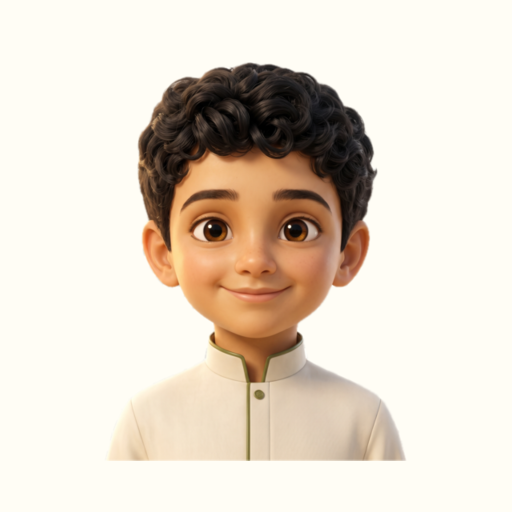
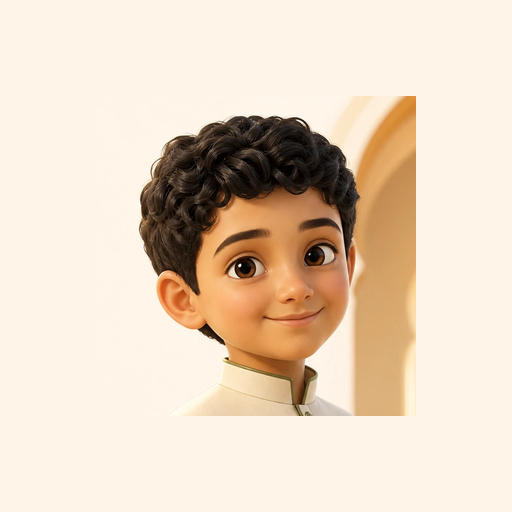
صورة المشاركة وأيقونة الجهاز بقت صورة يحيى الجديدة
صورة المشاركة اتبنت من صورة يحيى: اتقصّ بقناع Vision ووقف جوه قوس مسجد
على خلفية عاجية، بمقاس 1200×630 اللي بتطلبه المنصات. اتسمّت باسم جديد
(og-yahya-hero.jpg) لأن فيسبوك وإكس بيحفظوا الصورة القديمة على نفس
الرابط، والقديمة سايبها مكانها عشان اللي اتشارك قبل كده ما يبوظش.

وأيقونات الجهاز — أيقونة سفاري وأيقونات التطبيق الثلاثة — بقت وش يحيى
مقصوص من نفس الصورة، والأيقونة القابلة للقص فيها هامش أمان عشان
الموبايلات اللي بتقصّ الأطراف.

والاستماع اتنقل في القائمة العلوية قبل «عن الأكاديمية».

diff --git a/site/client/index.html b/site/client/index.html
@@ -21,12 +21,12 @@
     <meta data-default property="og:locale" content="ar_AR" />
     <meta data-default property="og:title" content="أكاديمية يحيى لتعليم القرآن للأطفال" />
     <meta data-default property="og:description" content="قراءة القرآن بالنص العثماني مع تلاوات معلّمة موثقة، وقصص من القرآن للأطفال." />
-    <meta data-default property="og:image" content="https://yahyaquran.com/og-yahya.jpg" />
+    <meta data-default property="og:image" content="https://yahyaquran.com/og-yahya-hero.jpg" />
     <meta data-default property="og:url" content="https://yahyaquran.com/" />
     <meta data-default name="twitter:card" content="summary_large_image" />
     <meta data-default name="twitter:title" content="أكاديمية يحيى لتعليم القرآن للأطفال" />
     <meta data-default name="twitter:description" content="قراءة القرآن بالنص العثماني مع تلاوات معلّمة موثقة، وقصص من القرآن للأطفال." />
-    <meta data-default name="twitter:image" content="https://yahyaquran.com/og-yahya.jpg" />
+    <meta data-default name="twitter:image" content="https://yahyaquran.com/og-yahya-hero.jpg" />
     <!--meta:end-->
 
     <link rel="icon" href="/favicon.svg" type="image/svg+xml" />

diff --git a/site/client/src/components/SiteChrome.tsx b/site/client/src/components/SiteChrome.tsx
@@ -58,11 +58,11 @@ export function SiteChrome({ variant = "full" }: { variant?: "full" | "reader" }
         {variant === "full" && (
           <nav aria-label={t.nav} className="site-nav">
             <Link href="/hifz">{t.hifz}</Link>
-            <Link href="/listen">{t.listen}</Link>
             <Link href="/stories">{t.stories}</Link>
             <Link href="/seerah">{t.seerah}</Link>
             <Link href="/quran-facts">{t.facts}</Link>
             <Link href="/aqeedah">{t.aqeedah}</Link>
+            <Link href="/listen">{t.listen}</Link>
             <Link href="/about">{t.about}</Link>
           </nav>
         )}

diff --git a/site/functions/_middleware.ts b/site/functions/_middleware.ts
@@ -25,7 +25,7 @@ import { chapters, stories, surahNames, seerahStations, seerahStories, aqeedahCa
 const SITE = "أكاديمية يحيى لتعليم القرآن للأطفال";
 const SITE_DESCRIPTION =
   "قراءة القرآن بالنص العثماني مع تلاوات معلّمة موثقة، وقصص من القرآن للأطفال في أربعة أبواب.";
-const DEFAULT_IMAGE = "/og-yahya.jpg";
+const DEFAULT_IMAGE = "/og-yahya-hero.jpg";
 const ORIGIN = "https://yahyaquran.com";
 
 // Descriptions arrive already shortened by scripts/build-seo.mjs, which is the

diff --git a/site/client/src/lib/page-meta.ts b/site/client/src/lib/page-meta.ts
@@ -45,7 +45,7 @@ export const SITE_DESCRIPTION_EN =
   "The Quran in the Uthmani text with verified teaching recitations, and illustrated stories from the Quran for children, in four chapters.";
 export const SITE_DESCRIPTION =
   "قراءة القرآن بالنص العثماني مع تلاوات معلّمة موثقة، وقصص من القرآن للأطفال في أربعة أبواب.";
-export const DEFAULT_IMAGE = "/og-yahya.jpg";
+export const DEFAULT_IMAGE = "/og-yahya-hero.jpg";
 
 const ORIGIN = "https://yahyaquran.com";
 

diff --git a/site/client/src/components/MobileMenu.tsx b/site/client/src/components/MobileMenu.tsx
@@ -41,11 +41,11 @@ const LINKS = [
   { href: "/", key: "home" },
   { href: "/read/1", key: "reader" },
   { href: "/hifz", key: "hifz" },
-  { href: "/listen", key: "listen" },
   { href: "/stories", key: "stories" },
   { href: "/seerah", key: "seerah" },
   { href: "/quran-facts", key: "facts" },
   { href: "/aqeedah", key: "aqeedah" },
+  { href: "/listen", key: "listen" },
   { href: "/about", key: "about" },
 ] as const;
 
